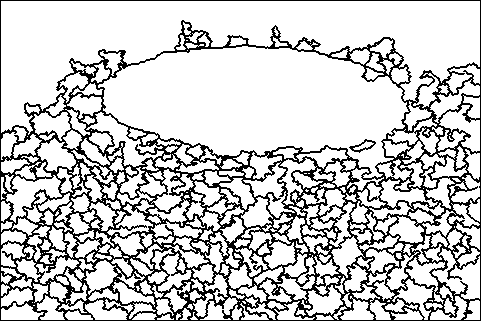
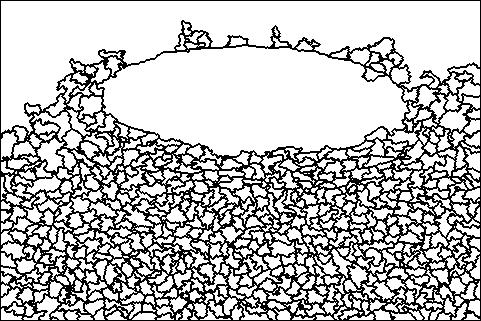
added delete entry, but something else is wrong, check before Merge daniel

diff --git a/MOEA/MOEA/population.cpp b/MOEA/MOEA/population.cpp
@@ -398,7 +398,8 @@ void Population::merge_segments(int ind_index, edge merge_nodes) {
 	set_segment_entry(merge_nodes.p2, merge_nodes.p1, ind_index);
 	set_dir_edge(merge_nodes.p1, merge_nodes.p2, 1, ind_index);
 	int num_new_segment_size = get_n_segment(merge_nodes.p1, ind_index, 0);
-	if (num_new_segment_size  != num_in_merged_segment) std::cout << " different size " << num_new_segment_size  << " " << num_in_merged_segment <<  std::endl;
+	int num_new_segment_size_2 = get_n_segment(merge_nodes.p2, ind_index, 0);
+	if (num_new_segment_size  != num_in_merged_segment) std::cout << " different size new 1 " << num_new_segment_size  <<" new 2 " << num_new_segment_size_2 <<"old " << num_in_merged_segment <<  std::endl;
 }
 
 void Population::merge_segments(int ind_index, int edge_index, edge merge_nodes) {
@@ -472,6 +473,10 @@ void  Population::merge_segment_properties(int ind_index, pos first, pos second)
 
 	segment_prop[ind_index].erase(second_entry);
 
+	auto it = std::find_if(entry_s[ind_index].begin(), entry_s[ind_index].end(), pos_comparator(second_entry));
+	if(it != entry_s[ind_index].end()) {
+		entry_s[ind_index].erase(it);
+	}
 }
 
 void Population::split_segment(int ind_index, int edge_index, edge split_nodes) {

diff --git a/MOEA/MOEA/var_operators.cpp b/MOEA/MOEA/var_operators.cpp
@@ -103,10 +103,10 @@ int mutation_greedy_merge_segments(Population &p, int ind_index) {
 		}
 		neighbour_border_dist /= border_edges.size();
 
-		if (avg_RGB_dist  < 255 && neighbour_border_dist < 255) {
+		if (avg_RGB_dist  < 1000 && neighbour_border_dist < 1000) {
 
-			std::cout << p.get_node(ind_index, min_edge.p1)->entry.x << " " << p.get_node(ind_index, min_edge.p1)->entry.y << std::endl;
-			std::cout << p.get_node(ind_index, min_edge.p2)->entry.x << " " << p.get_node(ind_index, min_edge.p2)->entry.y << std::endl;
+			//std::cout << p.get_node(ind_index, min_edge.p1)->entry.x << " " << p.get_node(ind_index, min_edge.p1)->entry.y << std::endl;
+			//std::cout << p.get_node(ind_index, min_edge.p2)->entry.x << " " << p.get_node(ind_index, min_edge.p2)->entry.y << std::endl;
 			p.merge_segments(ind_index, min_edge);
 			return 1;
 		}
